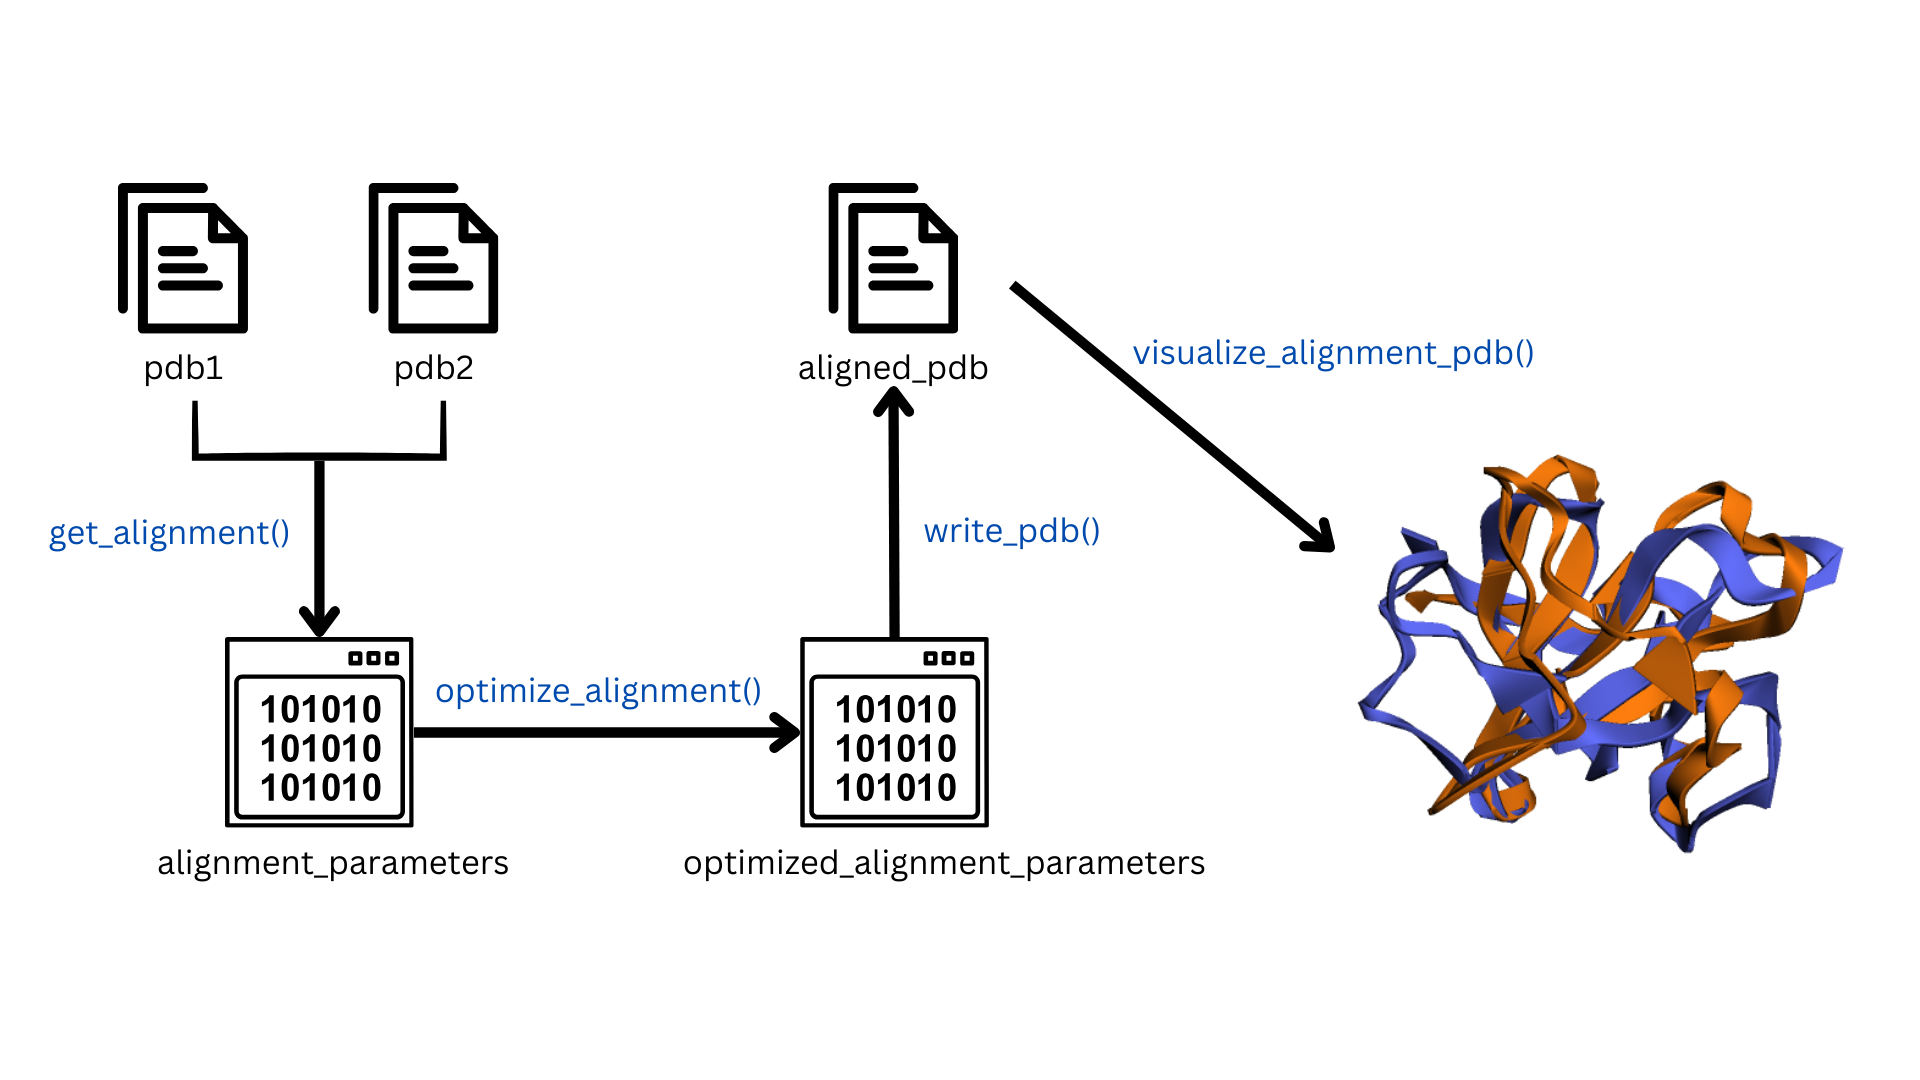
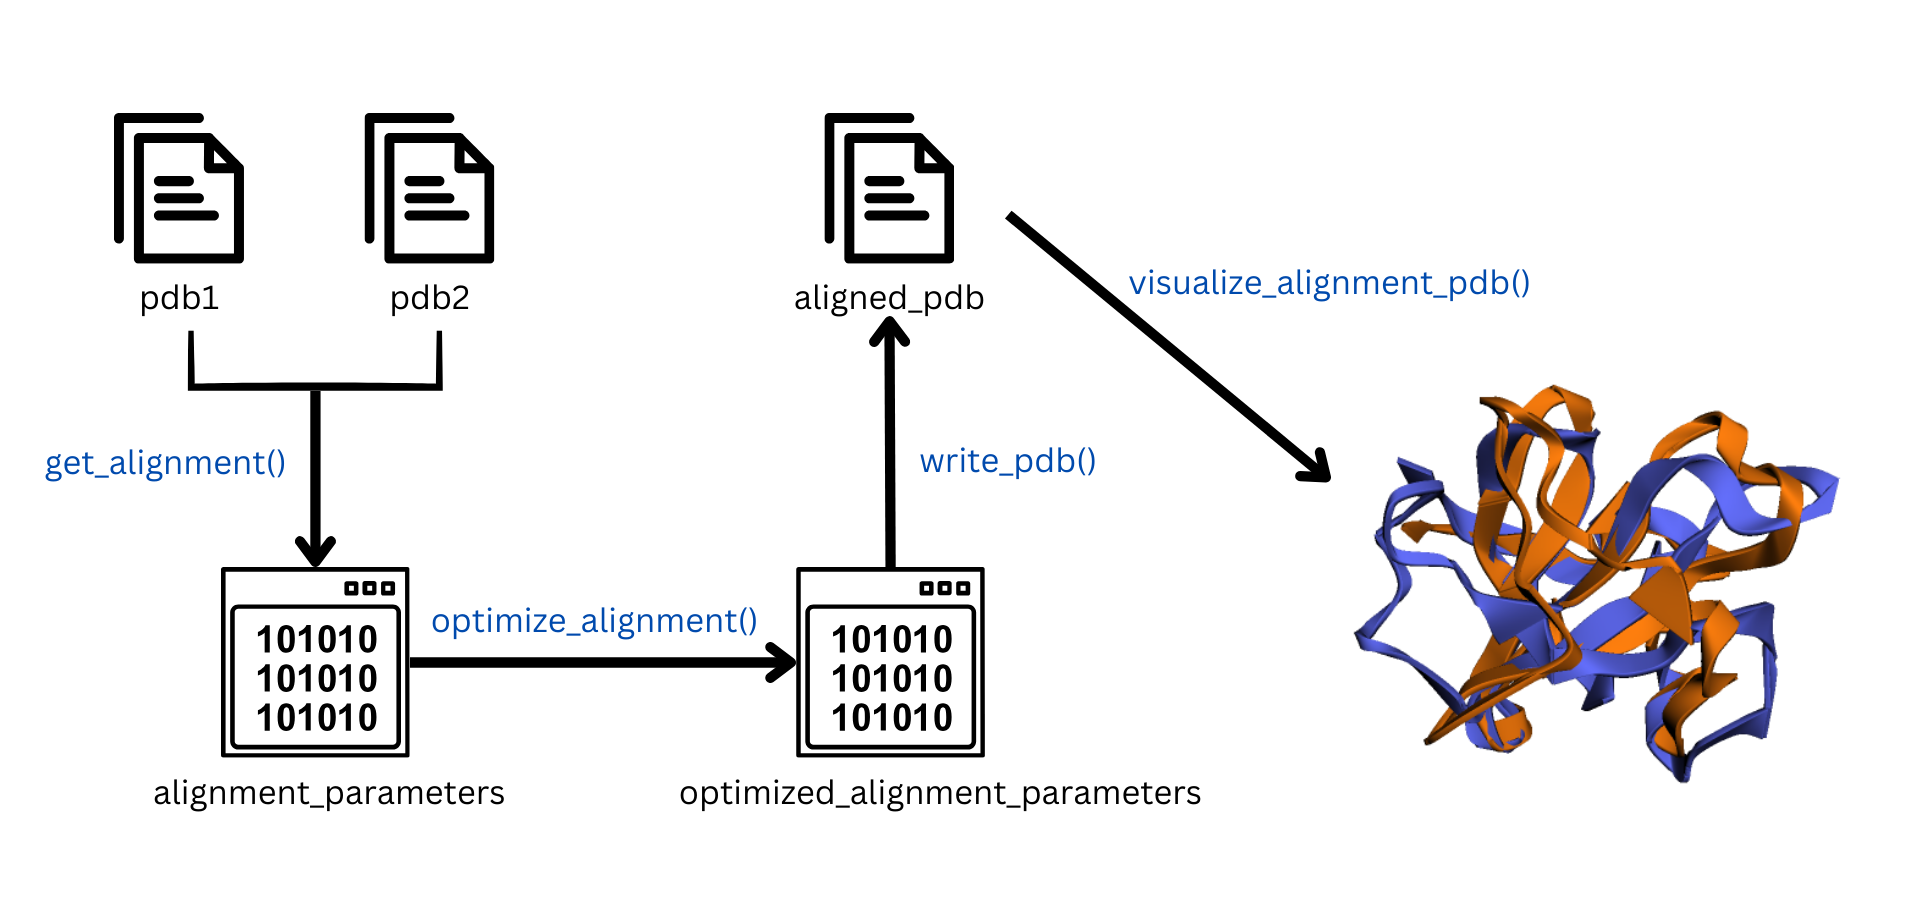
feat: edited figure and README for clarity

Changed region(s): [[0.0, 0.1236, 0.8006, 0.8962], [0.6159, 0.4018, 0.9854, 0.8653], [0.0616, 0.8653, 0.2771, 0.8962]]

diff --git a/README.md b/README.md
@@ -43,7 +43,7 @@ data(package = "TMscoreAlign")
 browseVignettes("TMscoreAlign")
 ```
 
-There are 6 functions in `TMscoreAlign`
+There are 7 functions in `TMscoreAlign`
 
 `get_alignment`: This function performs structure alignment between two
 protein structures specified by PDB files. First, it selects common
@@ -73,6 +73,13 @@ between two protein structures.
 deviation) between two protein structures based on their alignment
 parameters.
 
+`write_pdb`: This function writes the transformed coordinates obtained
+from a structure alignment to a new PDB file. The transformed
+coordinates are generated by applying the alignment parameters to the
+original coordinates of the second protein structure. The resulting PDB
+file includes the transformed coordinates appended to the original
+coordinates of the first structure.
+
 `visualize_alignment_pdb`: This function visualizes the structural
 alignment of two protein structures by displaying the aligned
 coordinates in a 3D viewer. The viewer is set up using `3Dmol`, and the
@@ -84,7 +91,8 @@ The package also contains two example PDB files of decoy protein
 structures from the 3DRobot dataset ([Deng, Jia, & Zhang,
 2016](https://doi.org/10.1093/bioinformatics/btv601)) for demonstration
 purposes. Refer to package vignettes for more details. An overview of
-the package is illustrated below.
+the package is illustrated below. Note that for clarity, not all
+functions are shown.
 
 ![](./inst/extdata/overview.png)
 
